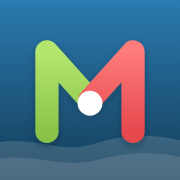
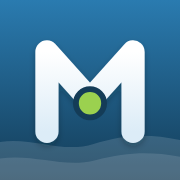
Ícone M em branco com paragem verde (sem verde e vermelho juntos)

Changed region(s): [[0.1944, 0.2222, 0.8056, 0.8056]]

diff --git a/src/components/Logo.tsx b/src/components/Logo.tsx
@@ -7,8 +7,8 @@ export function LogoMark({ className = 'h-9 w-9', onDark = false }: { className?
 <defs>
 <linearGradient id="rm-bg" x1="0" y1="0" x2="0" y2="1"><stop offset="0" stopColor="#2a7bb0"/><stop offset="1" stopColor="#143c57"/></linearGradient>
 <radialGradient id="rm-gl" cx=".25" cy=".1" r=".8"><stop offset="0" stopColor="#fff" stopOpacity=".28"/><stop offset="1" stopColor="#fff" stopOpacity="0"/></radialGradient>
-<linearGradient id="rm-gv" x1="0" y1="0" x2="0" y2="1"><stop offset="0" stopColor="#b4e66e"/><stop offset="1" stopColor="#8bc34a"/></linearGradient>
-<linearGradient id="rm-rv" x1="0" y1="0" x2="0" y2="1"><stop offset="0" stopColor="#ff7b7b"/><stop offset="1" stopColor="#e5484d"/></linearGradient>
+<linearGradient id="rm-gv" x1="0" y1="0" x2="0" y2="1"><stop offset="0" stopColor="#ffffff"/><stop offset="1" stopColor="#dcecf7"/></linearGradient>
+<linearGradient id="rm-rv" x1="0" y1="0" x2="0" y2="1"><stop offset="0" stopColor="#ffffff"/><stop offset="1" stopColor="#dcecf7"/></linearGradient>
 <filter id="rm-sh" x="-20%" y="-20%" width="140%" height="150%"><feDropShadow dx="0" dy="4" stdDeviation="4" floodColor="#04141f" floodOpacity=".28"/></filter>
 <clipPath id="rm-cl"><rect width="200" height="200" rx="46"/></clipPath>
 </defs>
@@ -20,7 +20,7 @@ export function LogoMark({ className = 'h-9 w-9', onDark = false }: { className?
 <path d="M48 150V54L100 112" fill="none" stroke="url(#rm-gv)" strokeWidth="28" strokeLinecap="round" strokeLinejoin="round"/>
 <path d="M100 112L152 54V150" fill="none" stroke="url(#rm-rv)" strokeWidth="28" strokeLinecap="round" strokeLinejoin="round"/>
 </g>
-<circle cx="100" cy="116" r="15" fill="#fff"/>
+<circle cx="100" cy="116" r="17" fill="#9bd14f" stroke="#143c57" strokeWidth="7"/>
 
     </svg>
   )
